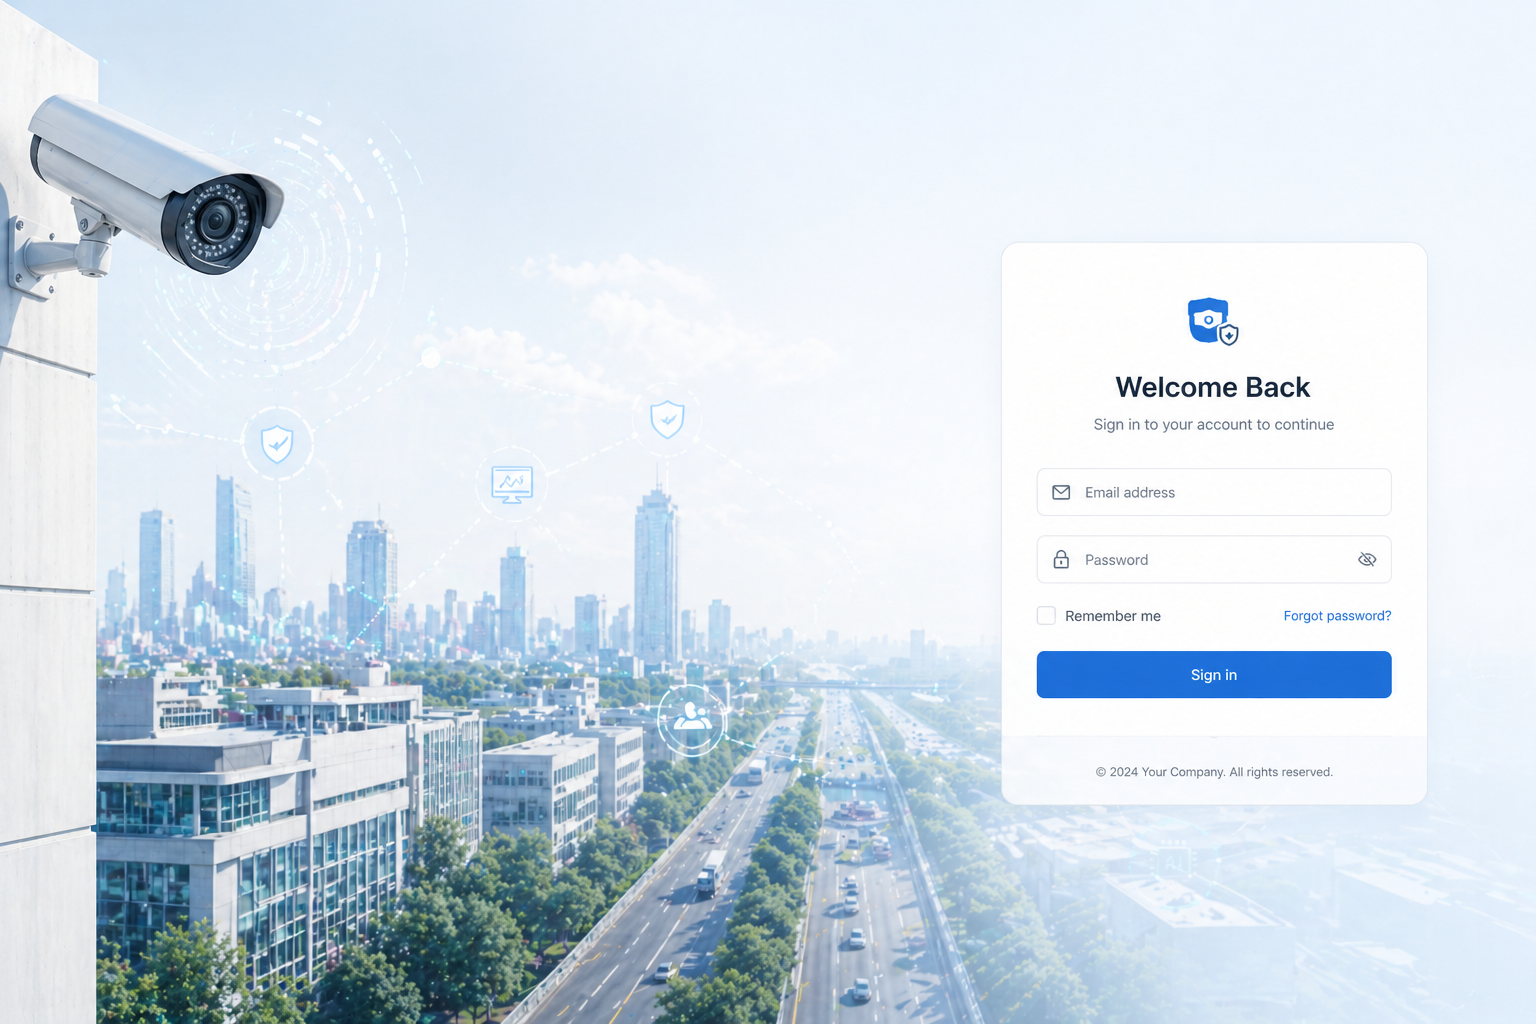
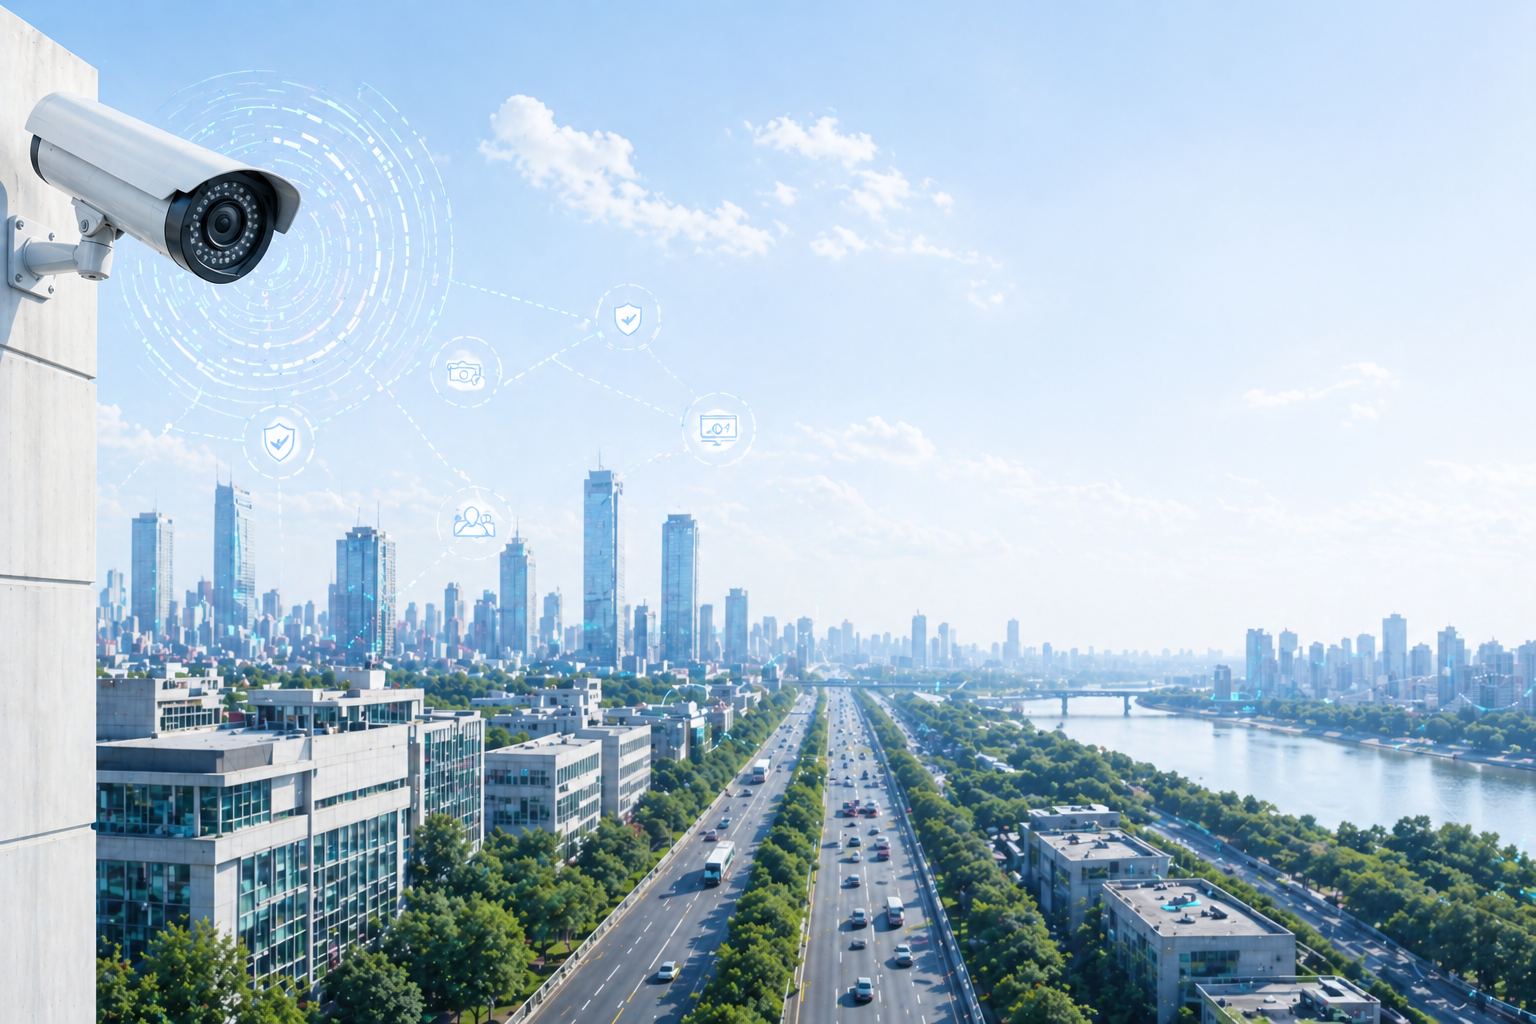
feat: update giao dien login , thêm dashboard GUIDE

diff --git a/frontend/features/auth/LoginPage.tsx b/frontend/features/auth/LoginPage.tsx
@@ -110,40 +110,79 @@ export function LoginPage() {
     <div
       className="relative min-h-screen overflow-hidden"
       style={{
-        backgroundImage: "url('/images/auth/img_login.png')",
+        backgroundImage: "url('/images/auth/img_backgroud5.png')",
         backgroundSize: "cover",
-        backgroundPosition: "center",
+        backgroundPosition: "center top",
         backgroundRepeat: "no-repeat",
       }}
     >
-      <div className="absolute inset-0 bg-slate-950/50" />
-      <div className="absolute inset-0 bg-[radial-gradient(circle_at_18%_22%,rgba(59,130,246,0.28),transparent_42%),radial-gradient(circle_at_80%_18%,rgba(14,165,233,0.18),transparent_40%)]" />
+      <div className="absolute inset-0 bg-slate-900/12" />
+      <div className="absolute inset-0 bg-[radial-gradient(circle_at_22%_30%,rgba(255,255,255,0.34),transparent_48%),radial-gradient(circle_at_82%_20%,rgba(174,213,255,0.26),transparent_45%)]" />
 
-      <div className="relative mx-auto grid min-h-screen w-full max-w-7xl items-center gap-8 px-4 py-10 md:grid-cols-[1.2fr_0.8fr] md:px-10">
-        <section className="rounded-3xl border border-white/15 bg-white/5 p-7 text-white shadow-elevated backdrop-blur-[1px] md:p-10">
-          <p className="inline-flex rounded-full border border-white/25 bg-white/10 px-3 py-1 text-xs font-semibold uppercase tracking-wide text-slate-100">
-            MCPT Intelligence
-          </p>
-          <h1 className="mt-5 text-4xl font-bold leading-tight text-white md:text-6xl">
-            Tim nhanh hon.
+
+      <div className="relative mx-auto grid min-h-screen w-full max-w-7xl items-center gap-8 px-4 py-8 md:grid-cols-[1.22fr_0.78fr] md:px-10">
+        <section className="rounded-3xl bg-slate-900/12 p-6 pt-20 text-white backdrop-blur-[2px] md:p-10 md:pt-36">
+          <div className="flex items-center gap-3">
+            <img src="/images/auth/img_icon_se.png" alt="logo" className="h-11 w-11 rounded-xl object-contain" />
+            <div>
+              <p className="text-3xl font-bold leading-tight text-[#F6FAFF] drop-shadow-[0_2px_6px_rgba(10,30,60,0.42)]">
+                VLyMVision
+              </p>
+              <p className="text-sm text-[#E8F2FF]/90">AI-Powered CCTV Platform</p>
+            </div>
+          </div>
+
+          <h1 className="mt-7 max-w-3xl text-4xl font-bold leading-tight md:text-6xl">
+            <span className="text-[#F6FAFF] drop-shadow-[0_2px_6px_rgba(10,30,60,0.42)]">Giam sat thong minh,</span>
             <br />
-            Nhin ro hon.
+            <span className="text-[#5DD4FF] drop-shadow-[0_2px_10px_rgba(34,200,255,0.45)]">an toàn vượt trội.</span>
           </h1>
-          <p className="mt-6 max-w-2xl text-base leading-relaxed text-slate-100/90 md:text-lg">
-            Nen tang quan ly va truy van video thong minh, toi uu cho van hanh noi bo va phan quyen an toan theo vai tro.
-            Tat ca du lieu duoc tap trung trong mot giao dien hien dai, de su dung.
+          <p className="mt-4 max-w-2xl text-base leading-relaxed text-[#E8F2FF] md:text-lg">
+            Nen tang CCTV tich hop AI giup ban giam sat, phat hien va phan ung tuc thi moi su kien.
           </p>
 
-          <div className="mt-8 grid gap-3 text-sm text-slate-100/95 sm:grid-cols-2">
-            <div className="rounded-2xl border border-white/15 bg-white/10 px-4 py-3">Tra cuu video theo text theo ngu canh.</div>
-            <div className="rounded-2xl border border-white/15 bg-white/10 px-4 py-3">Quan ly user voi RBAC ro rang, an toan.</div>
-            <div className="rounded-2xl border border-white/15 bg-white/10 px-4 py-3">Theo doi ket qua tap trung, thao tac nhanh.</div>
-            <div className="rounded-2xl border border-white/15 bg-white/10 px-4 py-3">San sang mo rong cho he thong AI service.</div>
+          <div className="mt-8 max-w-xl space-y-3">
+            <div className="flex items-start gap-3">
+              <img src="/images/auth/img_icon_Ai.png" alt="AI" className="mt-0.5 h-12 w-12 rounded-lg object-contain" />
+              <div>
+                <p className="text-xl font-semibold text-[#F5FAFF]">AI Thong minh</p>
+                <p className="text-sm text-[#DFECFF]">Phat hien khuon mat, hanh vi bat thuong va canh bao theo thoi gian thuc.</p>
+              </div>
+            </div>
+            <div className="flex items-start gap-3">
+              <img src="/images/auth/img_icon_cam.png" alt="Camera" className="mt-0.5 h-12 w-12 rounded-lg object-contain" />
+              <div>
+                <p className="text-xl font-semibold text-[#F5FAFF]">Giam sat toan dien</p>
+                <p className="text-sm text-[#DFECFF]">Xem live, xem lai, quan ly nhieu camera moi luc moi noi.</p>
+              </div>
+            </div>
+            <div className="flex items-start gap-3">
+              <img src="/images/auth/img_icon_se2.png" alt="Search" className="mt-0.5 h-12 w-12 rounded-lg object-contain" />
+              <div>
+                <p className="text-xl font-semibold text-[#F5FAFF]">Tim nguoi theo mo ta</p>
+                <p className="text-sm text-[#DFECFF]">Tim kiem nguoi qua dac diem hoac trang phuc.</p>
+              </div>
+            </div>
+          </div>
+
+          <div className="mt-7 flex flex-wrap items-center gap-6 text-sm text-[#EAF3FF]">
+            <div className="flex items-center gap-2">
+              <img src="/images/auth/img_icon_se2.png" alt="safe" className="h-5 w-5 rounded-md border border-white/70 bg-white/90 p-0.5 shadow-sm object-contain" />
+              <span>Bao mat cao</span>
+            </div>
+            <div className="flex items-center gap-2">
+              <img src="/images/auth/img_icon_cloud.png" alt="cloud" className="h-5 w-5 rounded-md border border-white/70 bg-white/90 p-0.5 shadow-sm object-contain" />
+              <span>Luu tru linh hoat</span>
+            </div>
+            <div className="flex items-center gap-2">
+              <img src="/images/auth/img_icon_thunder.png" alt="realtime" className="h-5 w-5 rounded-md border border-white/70 bg-white/90 p-0.5 shadow-sm object-contain" />
+              <span>Xu ly real-time</span>
+            </div>
           </div>
         </section>
 
         <section className="flex items-center justify-center md:justify-end">
-          <div className="w-full max-w-md rounded-3xl border border-white/40 bg-white/92 p-8 shadow-elevated backdrop-blur-md md:p-9">
+          <div className="w-full max-w-md rounded-3xl border border-white/45 bg-white/78 p-8 shadow-elevated backdrop-blur-xl md:p-9">
             <div className="mb-8 text-center">
               <h2 className="text-2xl font-semibold text-ink">Log in</h2>
               <p className="mt-2 text-sm text-ink-secondary">Su dung email va password de tiep tuc</p>
@@ -200,7 +239,7 @@ export function LoginPage() {
               <button
                 type="submit"
                 disabled={isLoading}
-                className="mt-2 rounded-2xl bg-accent py-3 text-sm font-semibold text-white shadow-card transition hover:bg-accent-hover disabled:cursor-not-allowed disabled:opacity-60"
+                className="mt-2 rounded-2xl bg-blue-600 py-3 text-sm font-semibold text-white shadow-card transition hover:bg-blue-700 disabled:cursor-not-allowed disabled:opacity-60"
               >
                 {isLoading ? "Dang xu ly..." : "Log in"}
               </button>

diff --git a/frontend/features/admin/UsersPage.tsx b/frontend/features/admin/UsersPage.tsx
@@ -152,23 +152,50 @@ export function UsersPage() {
       </section>
 
       <section className="rounded-2xl border border-surface-muted bg-white p-5 shadow-card">
-        <form className="grid grid-cols-1 gap-3 md:grid-cols-5" onSubmit={handleCreateUser}>
-          <input className="rounded-xl border border-surface-muted px-3 py-2" placeholder="Email" value={email} onChange={(e) => setEmail(e.target.value)} required />
-          <input className="rounded-xl border border-surface-muted px-3 py-2" placeholder="Full name" value={fullName} onChange={(e) => setFullName(e.target.value)} required />
-          <input className="rounded-xl border border-surface-muted px-3 py-2" placeholder="Password" type="password" value={password} onChange={(e) => setPassword(e.target.value)} required />
-          <select className="rounded-xl border border-surface-muted px-3 py-2" value={isActive ? "active" : "inactive"} onChange={(e) => setIsActive(e.target.value === "active")}>
+        <form className="grid grid-cols-1 gap-3 md:grid-cols-12" onSubmit={handleCreateUser}>
+          <input
+            className="rounded-xl border border-surface-muted px-3 py-2 md:col-span-3"
+            placeholder="Email"
+            value={email}
+            onChange={(e) => setEmail(e.target.value)}
+            required
+          />
+          <input
+            className="rounded-xl border border-surface-muted px-3 py-2 md:col-span-3"
+            placeholder="Full name"
+            value={fullName}
+            onChange={(e) => setFullName(e.target.value)}
+            required
+          />
+          <input
+            className="rounded-xl border border-surface-muted px-3 py-2 md:col-span-2"
+            placeholder="Password"
+            type="password"
+            value={password}
+            onChange={(e) => setPassword(e.target.value)}
+            required
+          />
+          <select
+            className="rounded-xl border border-surface-muted px-3 py-2 md:col-span-2"
+            value={isActive ? "active" : "inactive"}
+            onChange={(e) => setIsActive(e.target.value === "active")}
+          >
             <option value="active">Active</option>
             <option value="inactive">Inactive</option>
           </select>
-          <div className="flex gap-2">
-            <select className="flex-1 rounded-xl border border-surface-muted px-3 py-2" value={role} onChange={(e) => setRole(e.target.value as UserItem["role"])}>
+          <div className="flex min-w-0 gap-2 md:col-span-2">
+            <select
+              className="min-w-0 flex-1 rounded-xl border border-surface-muted px-3 py-2"
+              value={role}
+              onChange={(e) => setRole(e.target.value as UserItem["role"])}
+            >
               {ROLE_OPTIONS.map((item) => (
                 <option key={item} value={item}>
                   {item}
                 </option>
               ))}
             </select>
-            <button className="rounded-xl bg-accent px-4 py-2 text-white" type="submit">
+            <button className="shrink-0 rounded-xl bg-accent px-4 py-2 text-white" type="submit">
               Create
             </button>
           </div>

diff --git a/frontend/components/layout/Sidebar.tsx b/frontend/components/layout/Sidebar.tsx
@@ -29,7 +29,13 @@ export function Sidebar() {
   const isHistory = isHome && view === "history";
   const isDetail = pathname.startsWith("/detail/");
   const isUsers = pathname === "/admin/users";
+  const isGuide = pathname === "/guide";
+  const isDashboard = pathname === "/dashboard";
   const isSettings = pathname === "/settings";
+  const role = sessionUser?.role ?? "USER";
+  const canAccessHome = role !== "SUPER_ADMIN";
+  const canAccessUsers = ["ADMIN", "SUPER_ADMIN"].includes(role);
+  const canAccessDashboard = role === "SUPER_ADMIN";
 
   return (
     <aside className="flex h-screen w-[240px] shrink-0 flex-col border-r border-surface-muted bg-surface-card px-3 py-6 shadow-card">
@@ -39,18 +45,32 @@ export function Sidebar() {
       </div>
 
       <nav className="flex flex-1 flex-col gap-1">
-        <Link href="/home" className={linkClass(isNew)}>
-          <span className="text-lg leading-none">✦</span>
-          New
-        </Link>
-        <Link href="/home?view=history" className={linkClass(isHistory)}>
-          <span className="text-lg leading-none">⟲</span>
-          History
-        </Link>
-        {["ADMIN", "SUPER_ADMIN"].includes(sessionUser?.role ?? "") ? (
+        {canAccessHome ? (
+          <>
+            <Link href="/home" className={linkClass(isNew)}>
+              <span className="text-lg leading-none">✦</span>
+              New
+            </Link>
+            <Link href="/home?view=history" className={linkClass(isHistory)}>
+              <span className="text-lg leading-none">⟲</span>
+              History
+            </Link>
+          </>
+        ) : null}
+        {canAccessUsers ? (
           <Link href="/admin/users" className={linkClass(isUsers)}>
             <span className="text-lg leading-none">👥</span>
             Users
+          </Link>
+        ) : null}
+        <Link href="/guide" className={linkClass(isGuide)}>
+          <span className="text-lg leading-none">📘</span>
+          GUIDE
+        </Link>
+        {canAccessDashboard ? (
+          <Link href="/dashboard" className={linkClass(isDashboard)}>
+            <span className="text-lg leading-none">▦</span>
+            Dashboard
           </Link>
         ) : null}
         {isDetail ? (

diff --git a/frontend/app/(dashboard)/dashboard/page.tsx b/frontend/app/(dashboard)/dashboard/page.tsx
@@ -4,24 +4,23 @@ import { useRouter } from "next/navigation";
 import { useEffect, useState } from "react";
 
 import { useToast } from "@/components/ui/ToastProvider";
-import { HomeView } from "@/features/home/HomeView";
 import { loadSessionUser } from "@/lib/auth";
 
-export default function HomePage() {
+export default function DashboardPlaceholderPage() {
   const router = useRouter();
   const { showToast } = useToast();
   const [allowed, setAllowed] = useState(false);
 
   useEffect(() => {
     const user = loadSessionUser();
-    if (user?.role === "SUPER_ADMIN") {
-      showToast("SUPER_ADMIN khong duoc vao New/History.", "error");
-      router.replace("/admin/users");
+    if (user?.role !== "SUPER_ADMIN") {
+      showToast("Trang Dashboard chi danh cho SUPER_ADMIN.", "error");
+      router.replace("/home");
       return;
     }
     setAllowed(true);
   }, [router, showToast]);
 
   if (!allowed) return null;
-  return <HomeView />;
+  return <div className="min-h-[calc(100vh-12rem)] w-full rounded-2xl bg-white" aria-label="Dashboard" />;
 }

diff --git a/frontend/app/(dashboard)/guide/page.tsx b/frontend/app/(dashboard)/guide/page.tsx
@@ -1,0 +1,3 @@
+export default function GuidePage() {
+  return <div className="min-h-[calc(100vh-12rem)] w-full rounded-2xl bg-white" aria-label="Guide" />;
+}
